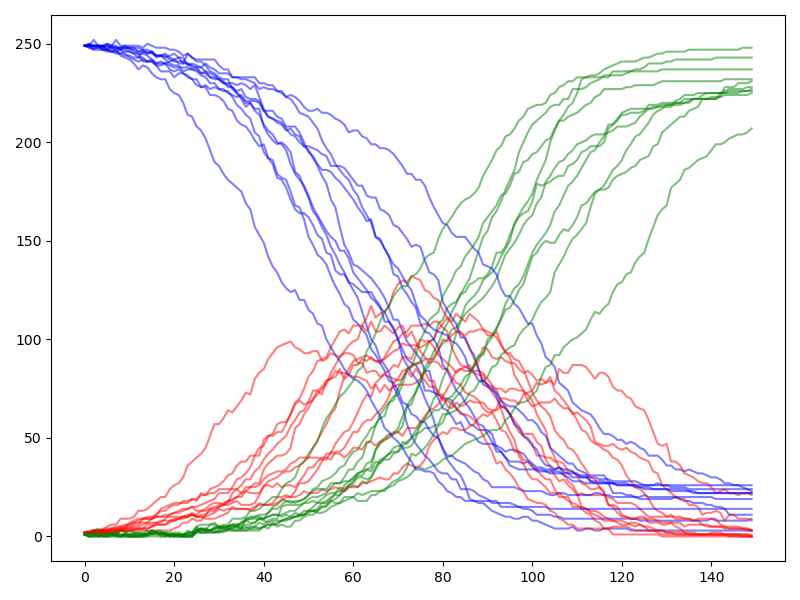
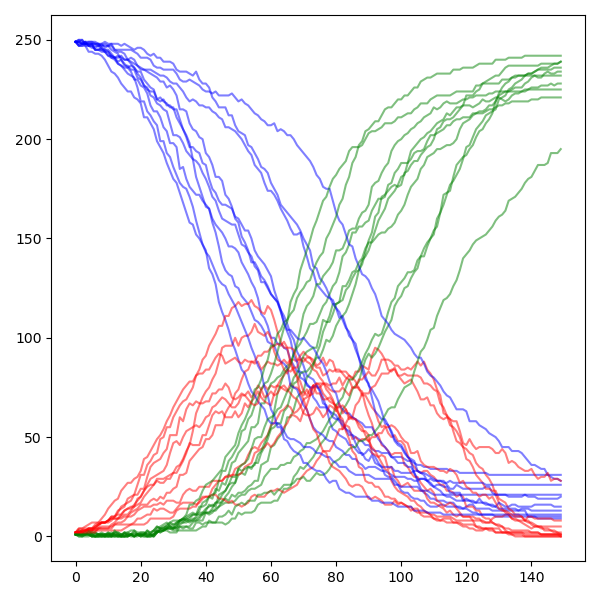
made cool pic smaller

diff --git a/main.py b/main.py
@@ -45,7 +45,7 @@ def draw_graph(graph, positions, agents, history, i=0):
 
 def draw_history(history_list):
     x = range(history_list[0]["s_count"].shape[0])
-    fig, ax = plt.subplots(nrows=1, ncols=1, figsize=(8, 6))
+    fig, ax = plt.subplots(nrows=1, ncols=1, figsize=(6, 6))
     for history in history_list:
         ax.plot(x, history["s_count"], color="blue", alpha=0.5)
         ax.plot(x, history["i_count"], color="red", alpha=0.5)
